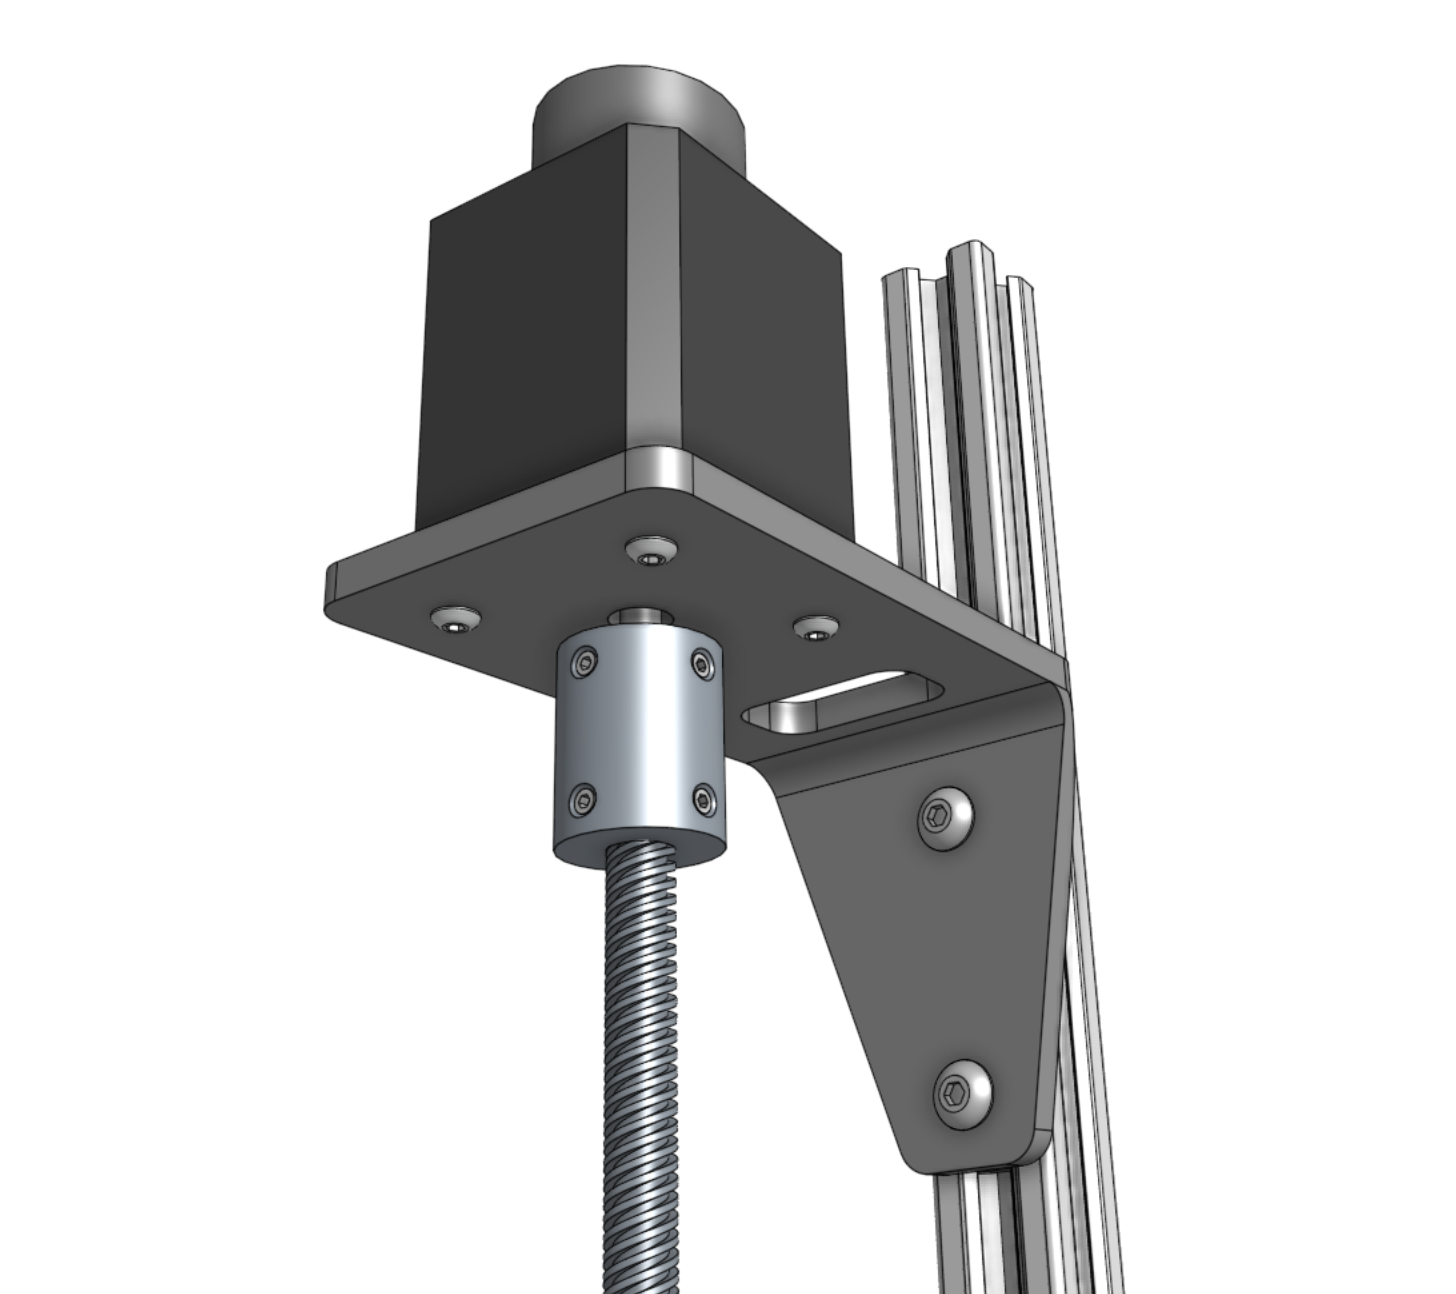
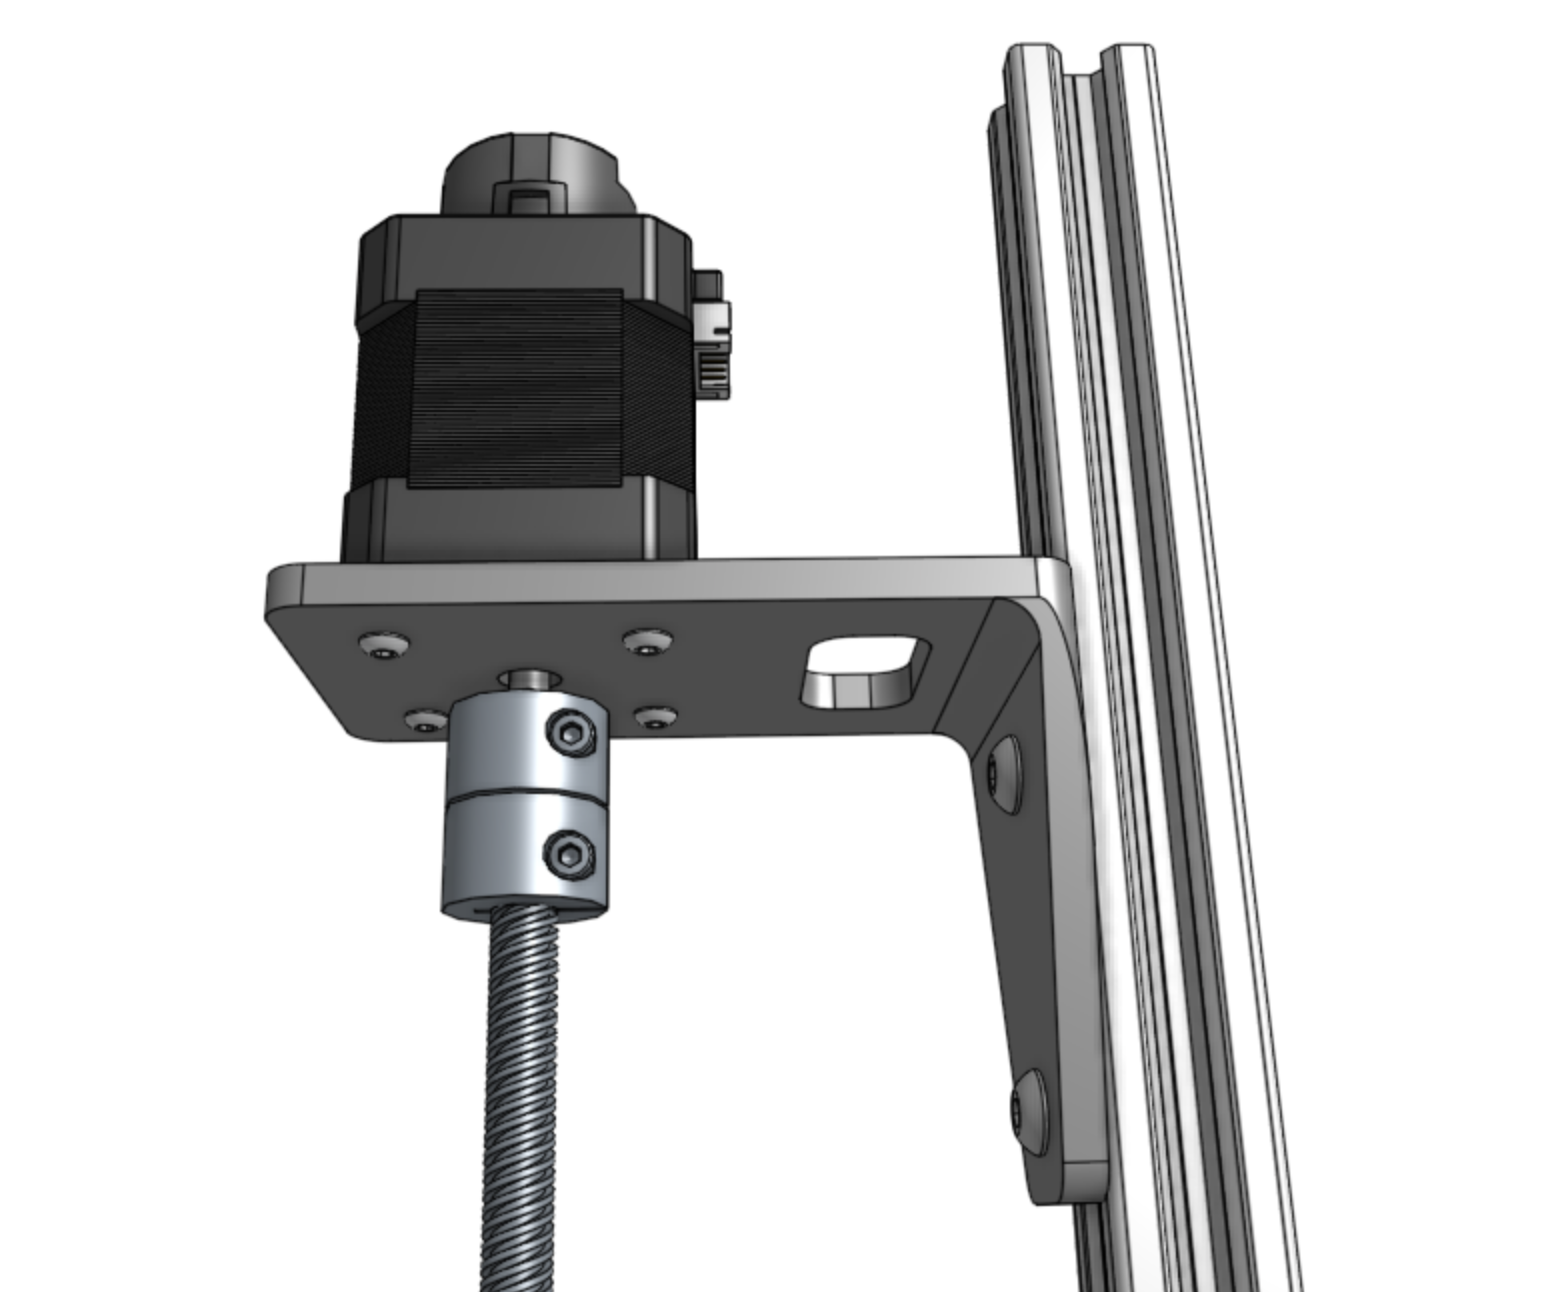
Coupler update

diff --git a/v1.5/FarmBot-Genesis-V1.5/z-axis.md b/v1.5/FarmBot-Genesis-V1.5/z-axis.md
@@ -10,8 +10,6 @@ description: "Documentation and assembly instructions for the FarmBot Genesis z-
 
 ![z-axis](_images/z-axis.png)
 
-
-
 {%
 include callout.html
 type="info"
@@ -20,6 +18,7 @@ content="This is the estimated time it will take to assemble the z-axis."
 %}
 
 # Step 1: Attach the stepper motor to the Z-axis motor mount
+
 Attach a **stepper motor** to the **z-axis motor mount** using four **M3 x 12mm screws**. The motor and encoder connectors should be facing the back flange of the mount.
 
 ![z-axis motor mount with motor](_images/z-axis_motor_mount_with_motor.png)
@@ -38,66 +37,69 @@ Attach the **z-axis motor mount** to the **z-axis extrusion** using a **60mm nut
 ![z-axis motor and mount attached to extrusion](_images/z-axis_motor_and_mount_attached_to_extrusion.png)
 
 # Step 3: Attach the shaft coupling
-Slide the **5mm to 8mm shaft coupling** onto the **motor shaft** and tighten the two setscrews with the **2.5mm hex key**. Ensure that the setscrews are positioned onto the flat parts of the motor shaft.
+
+Slide the **5mm to 8mm shaft coupling** onto the **motor shaft** and tighten the top screw with the **2.5mm hex key**.
 
 ![z-axis motor with coupling](_images/z-axis_motor_with_coupling.png)
 
 # Step 4: Attach three cable carrier supports
+
 Attach three **60mm vertical cable carrier supports** to the **z-axis extrusion** using **40mm nut bars** and **M5 x 10mm screws**. Space the supports along the extrusion as shown.
 
 ![z-axis with motor and cc supports](_images/z-axis_with_motor_and_cc_supports.png)
 
 # Step 5: Attach the vacuum pump cover
+
 Attach the **vacuum pump cover** to the **z-axis extrusion** using two **M5 drop-in tee nuts** and **M5 x 10mm screws**. The cover should be butted up against the lowest **cable carrier support**.
 
 ![z-axis with motor cc supports and vacuum pump cover](_images/z-axis_with_motor_cc_supports_and_vacuum_pump_cover.png)
 
 # Step 6: Attach the vacuum pump
-Fasten the **vacuum pump** to the **vacuum pump mount** using two **200mm zip ties**.
 
+Fasten the **vacuum pump** to the **vacuum pump mount** using two **200mm zip ties**. Then attach the vacuum pump mount to the **z-axis extrusion** using a **60mm nut bar** and two **M5 x 16mm screws**. The mount should be butted up against the **vacuum pump cover**.
+
+{% include gallery.html images="
 ![vacuum pump attached to mount](_images/vacuum_pump_attached_to_mount.png)
-
-Then attach the **vacuum pump mount** to the **z-axis extrusion** using a **60mm nut bar** and two **M5 x 16mm screws**. The mount should be butted up against the **vacuum pump cover**.
-
 ![vacuum pump mounted to z-axis](_images/vacuum_pump_mounted_to_z-axis.png)
+" %}
 
 # Step 7: Attach one more cable carrier support
+
 Attach one more **60mm vertical cable carrier support** using a **40mm nut bar** and two **M5 x 10mm screws**. The support should be butted up against the **vacuum pump mount**.
 
 ![z-axis last cable carrier support](_images/z-axis_last_cable_carrier_support.png)
 
 # Step 8: Attach the z-axis to the cross-slide
+
 Screw the **leadscrew** halfway into the **leadscrew block**.
 
 ![leadscrew in cross-slide](_images/leadscrew_in_cross-slide.png)
 
-Slide the **z-axis extrusion** through the v-wheels on the **cross-slide** until the **leadscrew** inserts into the **5mm to 8mm shaft coupling**.
+Slide the **z-axis extrusion** through the v-wheels on the **cross-slide** until the **leadscrew** inserts into the **5mm to 8mm shaft coupling**. Then tighten the coupling's lower **screw** with the **2.5mm hex key**.
 
 {%
 include callout.html
-type="warning"
+type="wrench"
 title="Adjust the eccentric spacers as needed"
 content="In order to slide the z-axis through the v-wheels you will need to adjust the eccentric spacers of the three v-wheels on the right side of the cross-slide. Refer to the [eccentric spacer adjustment reference guide](../Extras/reference/eccentric-spacer-adjustment.md) for how to do this."
 %}
 
-
-
+{% include gallery.html images="
 ![z-axis in cross-slide](_images/z-axis_in_cross-slide.png)
-
-Secure the **leadscrew** to the **5mm to 8mm shaft coupler** by tightening the two **setscrews** with the **2.5mm hex key**.
-
 ![z-axis motor and leadscrew connection](_images/z-axis_motor_and_leadscrew_connection.png)
+" %}
 
 # Step 9: Install the hardstops
-Attach a **z-axis hardstop** onto the backside of the **z-axis extrusion** approximately 200mm from the top of the extrusion using an **M5 x 10mm screw** and **tee nut**. Later, you can quickly adjust this to physically prevent FarmBot from ever moving too low within its working space, which could damage something.
 
+Attach the **z-axis hardstops** onto the backside of the **z-axis extrusion** approximately 200mm from the top of the extrusion and 100mm from the bottom of the extrusion using **M5 x 10mm screws** and **tee nuts**. Later, you can quickly adjust these to physically prevent FarmBot from moving too low or too hight within its working space.
+
+{% include gallery.html images="
 ![z-axis top hardstop](_images/z-axis_top_hardstop.png)
-
-Attach the other **z-axis hardstop** onto the backside of the **z-axis extrusion** approximately 100mm from the bottom of the extrusion. This prevents the z-axis from moving too high.
-
 ![z-axis bottom hardstop](_images/z-axis_bottom_hardstop.png)
+" %}
 
 # Step 10: Add the vertical motor housing (optional)
+
 If you plan on stopping assembly after this page, it is recommended to attach the **80mm vertical motor housing** to the **z-axis extrusion** using **M5 x 10mm screws** and **tee nuts** now. This will protect the motor from rain and other hazards until you resume assembly at a later point. Once you resume assembly, you will need to remove the housing.
 
 If you do not plan on stopping the assembly process now, you can skip this step and install the housing after the z motor and encoder cables have been connected in the next step.
